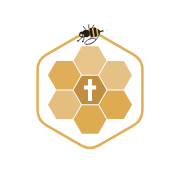
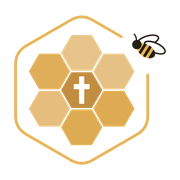
Revert to Rick's static mark
Rick settled on the still version: the broken hexagon ring with the bee
sitting outside it, at the gap. No animation, and none of my redrawing —
this is his own file, so the artwork is exactly what he approved rather
than my reading of it.

Handled on the way in: the source is a 2048px opaque PNG, so the white
background is flood-filled to transparent FROM THE BORDER ONLY, which
leaves the white cross and the white wing fills untouched, then trimmed
to the artwork, squared about its centre and resampled to 512 (about 7x
the 72px it is displayed at, so it stays sharp on any screen). favicon
and apple-touch-icon are regenerated from the same file, the latter on a
white plate since iOS squares and masks it. logo-mark.svg is deleted.

The 72px header size stays as it is — that was a separate fix and Rick
has not asked for it back.

Claude-Session: https://claude.ai/code/session_016YUc8HExmgeu3sANJ7M37b

Changed region(s): [[0.0556, 0.0833, 0.9444, 0.9167], [0.7222, 0.1667, 0.75, 0.1944]]

diff --git a/admin/index.html b/admin/index.html
@@ -22,7 +22,7 @@
 <body>
   <header class="site-header">
     <div class="header-inner">
-      <img class="logo-mark" src="/assets/logo-mark.svg" width="92" height="92" alt="蜂巢" />
+      <img class="logo-mark" src="/assets/logo-mark.png" width="512" height="512" alt="蜂巢" />
       <div class="brand-lockup">
         <div class="brand-name">蜂巢</div>
         <div class="brand-tag">管理中心 Admin Center</div>

diff --git a/index.html b/index.html
@@ -12,7 +12,7 @@
 <body>
   <header class="site-header">
     <div class="header-inner">
-      <img class="logo-mark" src="/assets/logo-mark.svg" width="92" height="92" alt="蜂巢" />
+      <img class="logo-mark" src="/assets/logo-mark.png" width="512" height="512" alt="蜂巢" />
       <div class="brand-lockup">
         <div class="brand-line">
           <span class="brand-name">蜂巢</span>
